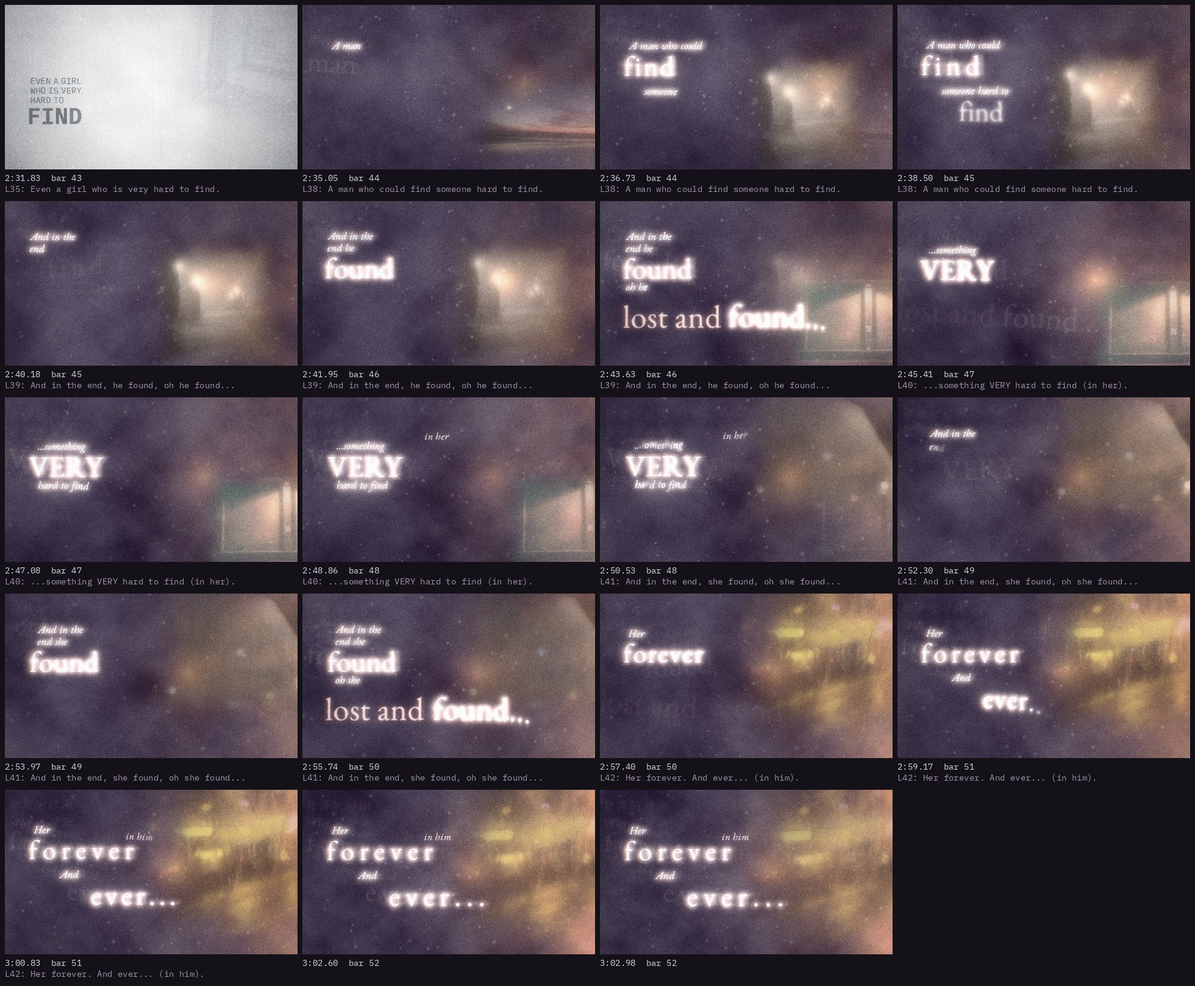
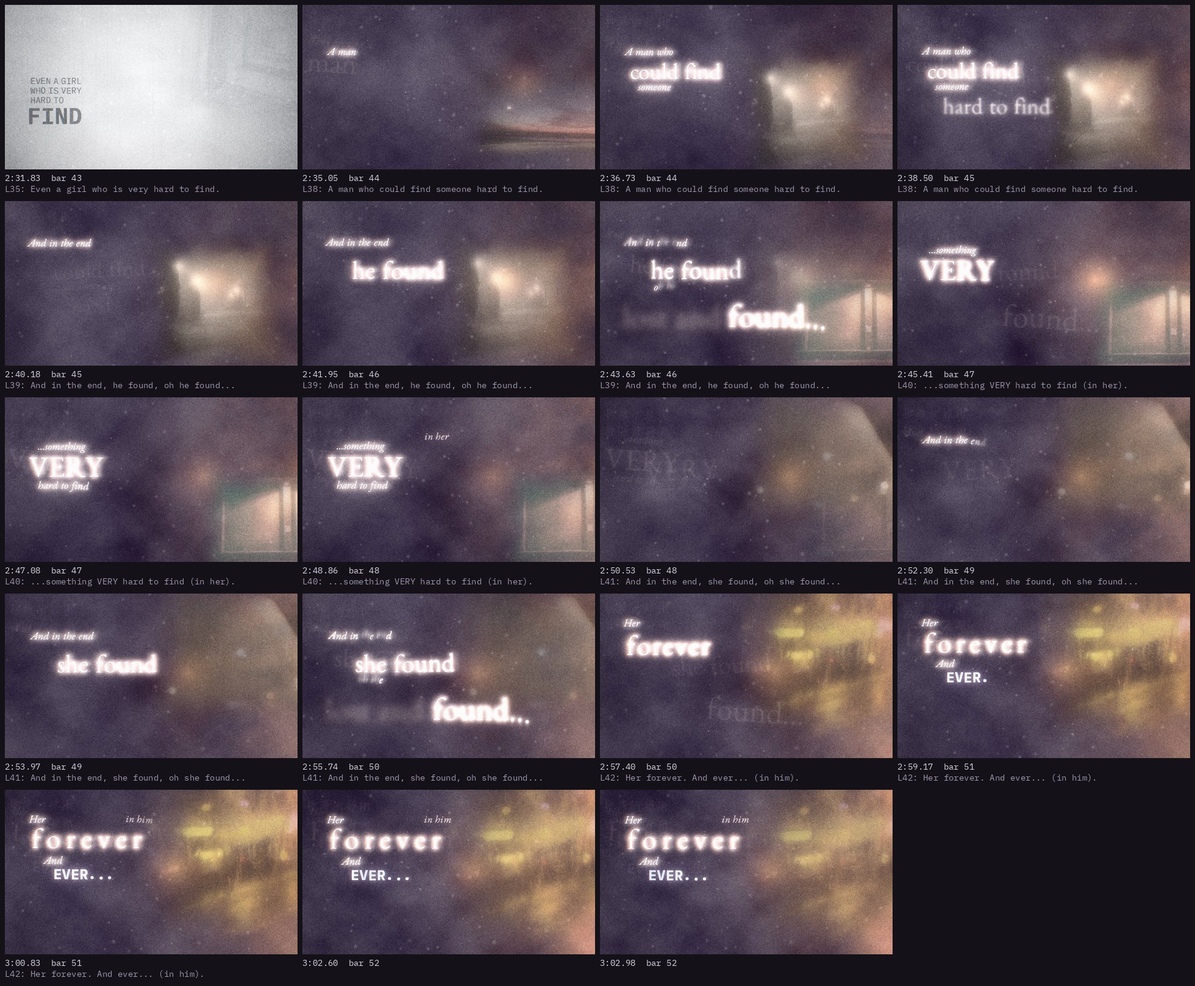
Storyboard: revised They brought a man
Claude-Session: https://claude.ai/code/session_013aPae8dR11r7xw8o95d9Yi

diff --git a/storyboard/index.html b/storyboard/index.html
@@ -150,7 +150,7 @@ ol.steps li::marker { font: 600 0.85rem var(--mono); color: var(--ink-2); }
   </video>
   <figcaption><b>They brought a man</b>
     <span class="tc">2:31.8 → 3:03.4 · bars 44–53</span>
-    <span class="note">The title&#x27;s missing word arrives. The coats&#x27; white drains into his night; he is never shown, only warmth searching in from the right, flaring on VERY. Each second &#x27;found...&#x27; is written into the empty space after a faint &#x27;lost and&#x27;, so the title reads whole for a moment, for him and then again for her. &#x27;find someone hard to find&#x27;: the second &#x27;find&#x27; only seeps in. FOREVER / EVER both slowly open; &#x27;in her&#x27; and &#x27;in him&#x27; echo from the same place. (The night world&#x27;s exposure ghosts are turned down to a trace here: bright type was doubling.) <a href="renders/brought_a_man_contact.jpg">Contact sheet</a></span></figcaption>
+    <span class="note">Revised: COULD FIND set against HARD TO FIND (the second only seeping in); HE FOUND / SHE FOUND stand apart from &#x27;And in the end&#x27;; the &#x27;lost and&#x27; before each completing &#x27;found...&#x27; is now only a blurred smudge of light, not readable on a first watch; FOREVER reaches (her warm light, rising slowly and opening) while EVER... traps (typed in the coats&#x27; cold monospace, flickering, perfectly still). Unchanged: white drains into his night; VERY; &#x27;in her&#x27; / &#x27;in him&#x27; from the same place. <a href="renders/brought_a_man_contact.jpg">Contact sheet</a></span></figcaption>
 </figure>
 <figure class="render" id="render-white_coats_i">
   <video controls playsinline preload="metadata" poster="renders/white_coats_i_poster.jpg" width="1280" height="720">
@@ -404,7 +404,7 @@ ol.steps li::marker { font: 600 0.85rem var(--mono); color: var(--ink-2); }
     <p class="lyr">They brought a man.</p>
     <dl>
       <dt>Picture</dt><dd>The coats&#x27; white drains into night: he is brought in. He is never shown; he arrives as warmth, a light leak creeping in from the right and searching the fog a step per bar. On “VERY” it finds the one warm point inside her and she glows back. The title&#x27;s missing word arrives here: each second “found...” is written into the empty space after a faint “lost and”, so for a moment the title reads whole, for him and then again for her.</dd>
-      <dt>Type</dt><dd>Her voice as light. find / (hard to) find, the second only seeping in; FOUND; VERY; FOREVER / EVER both slowly opening. “in her” and “in him” echo from the same place.</dd>
+      <dt>Type</dt><dd>Her voice as light. COULD FIND / HARD TO FIND, the second only seeping in; HE FOUND apart from “in the end”; VERY; FOREVER reaching, EVER... typed in the coats&#x27; cold monospace. “in her” and “in him” echo from the same place.</dd>
       <dt>Sync</dt><dd>The warmth advances a step per bar; the flare lands on “VERY”; “lost and” surfaces on “oh he / oh she”.</dd>
     </dl>
   </div>
